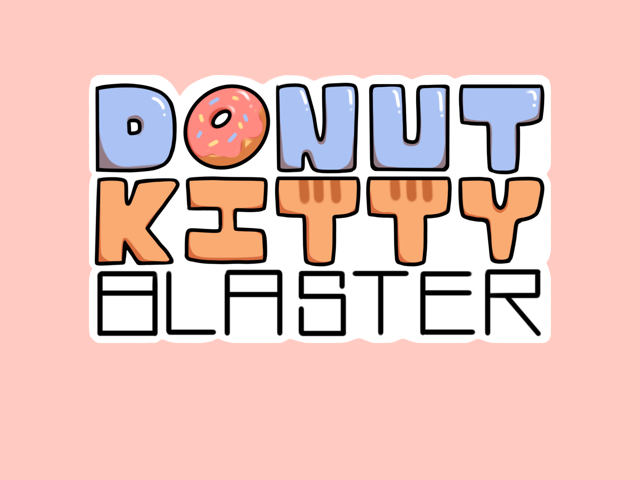
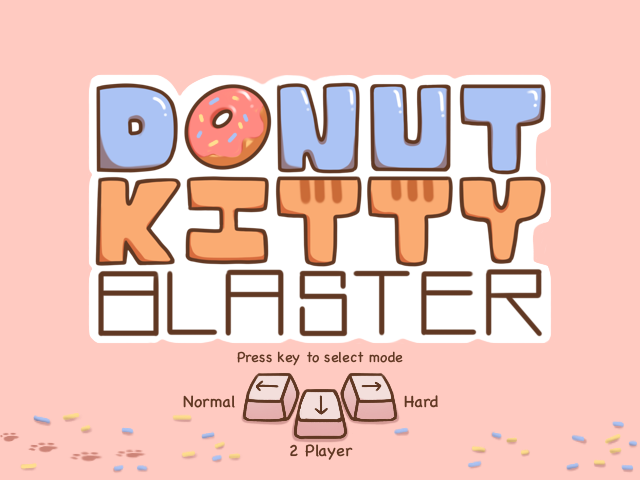
game controls ui

diff --git a/src/scenes/Play.js b/src/scenes/Play.js
@@ -10,6 +10,8 @@ class Play extends Phaser.Scene {
         this.load.image('conveyer_belt', './assets/conveyer_belt.png');
         this.load.image('P1frame', './assets/P1frame.png');
         this.load.image('P2frame', './assets/P2frame.png');
+        this.load.image('control1', './assets/control1.png');
+        this.load.image('control2', './assets/control2.png');
         this.load.spritesheet('explosion', './assets/chomp.png', {frameWidth: 64, frameHeight: 32, startFrame: 0, endFrame: 13});
     }
     create() {
@@ -47,37 +49,40 @@ class Play extends Phaser.Scene {
         this.P1frame = this.add.tileSprite(0,0, 640, 480, 'P1frame').setOrigin(0,0);
         if (game.settings.mode == true){
             this.P2Frame = this.add.tileSprite(0,0,640,480, 'P2frame').setOrigin(0,0);
+            this.control2 = this.add.tileSprite(0,0,640, 480, 'control2').setOrigin(0,0);
+        } else {
+            this.control1 = this.add.tileSprite(0,0,640, 480, 'control1').setOrigin(0,0);
         }
 
 
         this.p1Score = 0;
         this.p2Score = 0;
         let scoreConfig = {
-            fontFamily: "Courier",
-            fontSize: '25px',
+            fontFamily: "Comic Sans MS",
+            fontSize: '22px',
             backgroundColor: "transparent",
             color: '#843605',
             align: 'right',
             padding: {
-                top: 12,
+                top: 10,
                 bottom: 0,
             },
             fixedWidth: 100
         }
         if (game.settings.mode == true) {
             let scoreConfig2 = {
-                fontFamily: "Courier",
-                fontSize: '25px',
+                fontFamily: "Comic Sans MS",
+                fontSize: '22px',
                 backgroundColor: "transparent",
                 color: '#843605',
                 align: 'left',
                 padding: {
-                    top: 12,
-                    bottom:0,
+                    top: 10,
+                    bottom:10,
                 },
                 fixedWidth: 50
             }
-            this.scoreRight = this.add.text((game.config.width * (3/4)) + 15 , borderUISize + borderPadding*2, this.p2Score, scoreConfig2);
+            this.scoreRight = this.add.text((game.config.width * (3/4)) + 18 , borderUISize + borderPadding*2, this.p2Score, scoreConfig2);
         }
         this.scoreLeft = this.add.text(borderUISize + borderPadding, borderUISize + borderPadding*2, this.p1Score, scoreConfig);
         this.gameOver = false;

diff --git a/src/scenes/Menu.js b/src/scenes/Menu.js
@@ -13,7 +13,7 @@ class Menu extends Phaser.Scene {
     create() {
         this.menu = this.add.tileSprite(0,0, 640, 480, 'menu').setOrigin(0,0);
         let menuConfig = {
-            fontFamily: 'Courier',
+            fontFamily: 'Comic Sans MS',
             fontSize: '20px',
             //backgroundColor: "#FFC4BD",
             color: '#843605',
@@ -26,10 +26,10 @@ class Menu extends Phaser.Scene {
         }
 
         //this.add.text(game.config.width/2, game.config.height/2 - borderUISize - borderPadding, 'Donut Kitty Blast', menuConfig).setOrigin(0.5);
-        this.add.text(game.config.width/2, game.config.height/1.3, 'Use ←→ arrows to move & (F) to shoot', menuConfig).setOrigin(0.5);
-        menuConfig.backgroundColor = '#FFC4BD';
-        menuConfig.color = '#000';
-        this.add.text(game.config.width/2, game.config.height/1.35 + borderUISize + borderPadding, 'Press ← for Novice or → for Expert', menuConfig).setOrigin(0.5);
+        //this.add.text(game.config.width/2, game.config.height/1.3, 'Use ←→ arrows to move & (F) to shoot', menuConfig).setOrigin(0.5);
+        //menuConfig.backgroundColor = '#FFC4BD';
+        //menuConfig.color = '#000';
+        //this.add.text(game.config.width/2, game.config.height/1.35 + borderUISize + borderPadding, 'Press ← for Novice or → for Expert', menuConfig).setOrigin(0.5);
 
         keyLEFT = this.input.keyboard.addKey(Phaser.Input.Keyboard.KeyCodes.LEFT);
         keyRIGHT = this.input.keyboard.addKey(Phaser.Input.Keyboard.KeyCodes.RIGHT);
